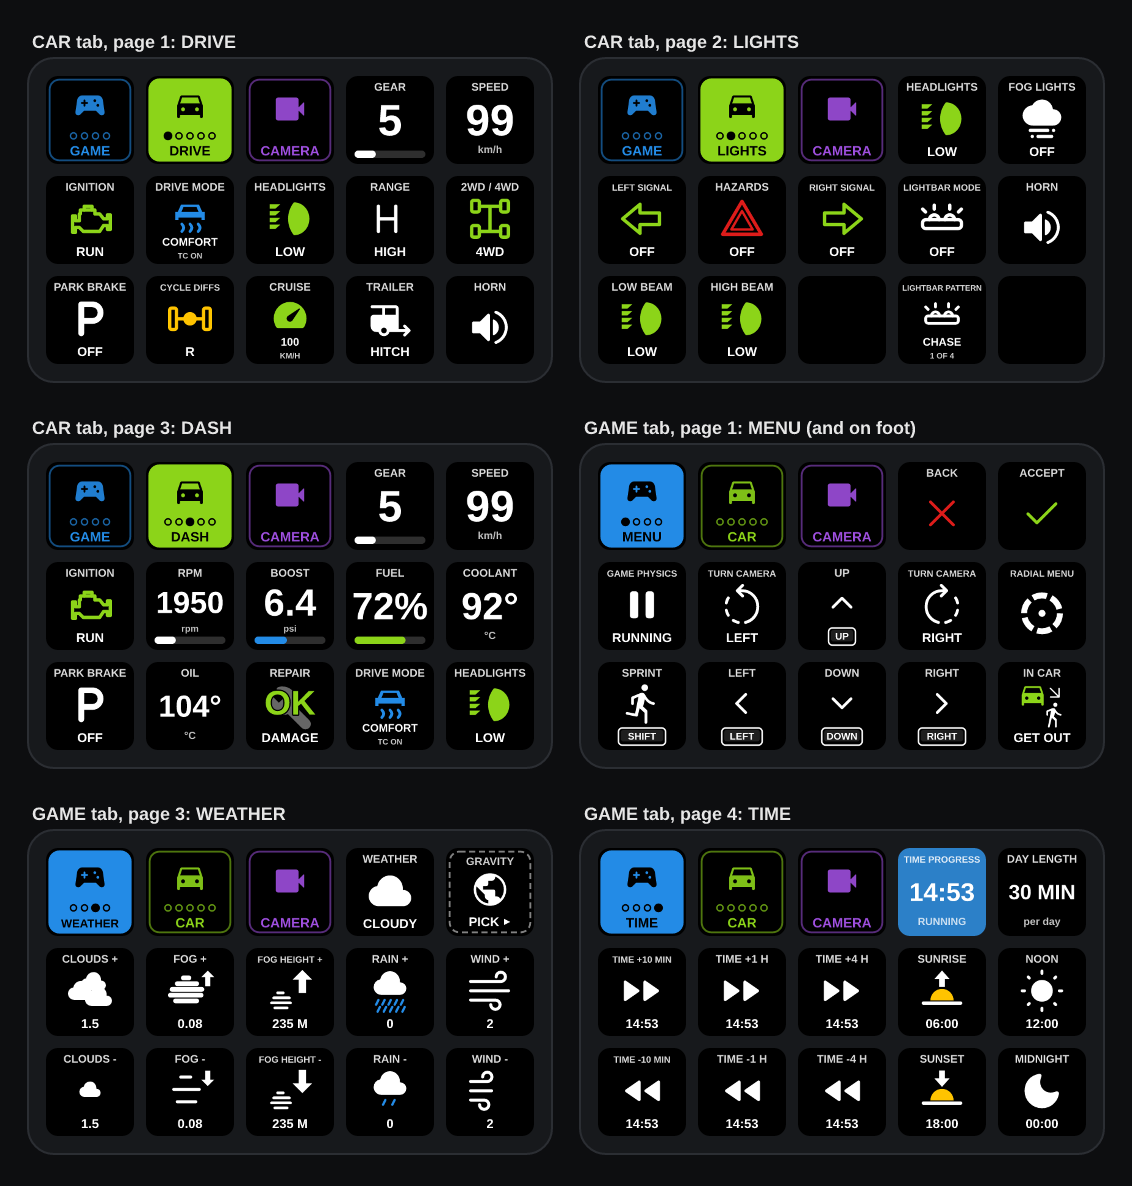
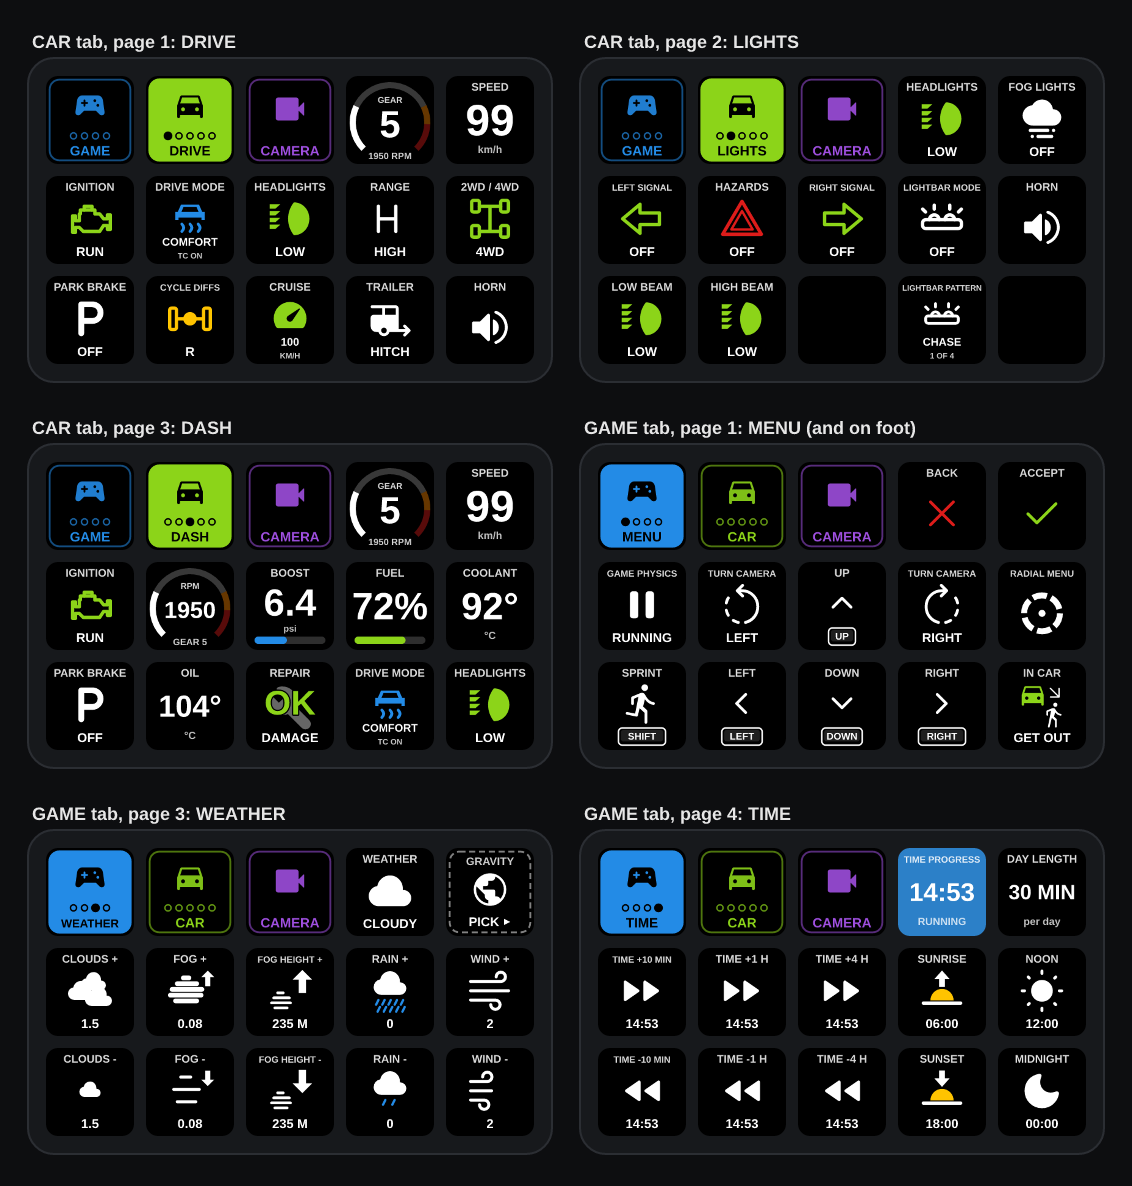
0.2.16: tacho arc on the RPM and Gear + shift light gauges
Rev arc round the key, bottom left over the top to bottom right: white, orange
from 85% of the rev limit, red from 97% and on past the limit (to 115%) so an
over-rev shows. The number follows the zone colour and flashes red at the limit.
Gear shows the RPM underneath, RPM shows the gear.

Claude-Session: https://claude.ai/code/session_01GbrUqxLtYbk74SkTvwXFfA

Changed region(s): [[0.1237, 0.468, 0.2164, 0.5616], [0.3092, 0.3744, 0.4019, 0.468], [0.3092, 0.0624, 0.4019, 0.156]]

diff --git a/src/icons.ts b/src/icons.ts
@@ -50,7 +50,7 @@ export type Face = {
 	glyph?: string[]; // game icon names (sprite symbol ids), first one available is used
 	tint?: string; // glyph colour (a P colour); flash frames use P.dimmed
 	/** Drawn gauge / readout instead of an icon: clock, speed, fuel... */
-	panel?: { big: string; top?: string; unit?: string; bg?: string; fg?: string; bar?: { value: number; color: string } };
+	panel?: { big: string; top?: string; unit?: string; bg?: string; fg?: string; bar?: { value: number; color: string }; arc?: { value?: number } };
 	label: string; // what the key is (also the in-game message); the top title unless head is set
 	value: string; // its current mode: the bottom line (left out when it only repeats the title)
 	sub?: string; // small extra line under the mode ("TC ON", "PAUSED", "OPENS MENU"...)
@@ -348,7 +348,50 @@ ${decorations({ frame: f.frame })}
 </svg>`;
 }
 
+/** Rev arc zones (share of the rev limit): white, then orange near the redline, red at it and beyond.
+ *  The arc runs past the limit (to REV_ARC) so an over-rev (a missed downshift) shows in the red. */
+export const REV_ORANGE = 0.85;
+export const REV_RED = 0.97;
+export const REV_ARC = 1.15;
+export const ORANGE = "#FF8A00";
+export const revZone = (k?: number) => (k === undefined || k < REV_ORANGE ? "#fff" : k < REV_RED ? ORANGE : P.red);
+
+/** Tacho arc round the key, from bottom left over the top to bottom right: faint zones, lit up to the revs. */
+function revArc(value: number | undefined, dim: boolean): string {
+	const cx = 72, cy = 76, r = 61, sw = 10;
+	const pt = (t: number) => {
+		const a = ((225 - 270 * t) * Math.PI) / 180;
+		return `${(cx + r * Math.cos(a)).toFixed(2)} ${(cy - r * Math.sin(a)).toFixed(2)}`;
+	};
+	const seg = (t0: number, t1: number, color: string, op: number) =>
+		t1 - t0 < 0.002 ? "" : `<path d="M ${pt(t0)} A ${r} ${r} 0 ${(t1 - t0) * 270 > 180 ? 1 : 0} 1 ${pt(t1)}" fill="none" stroke="${color}" stroke-width="${sw}" stroke-opacity="${op}"/>`;
+	const zones: [number, number, string][] = [[0, REV_ORANGE / REV_ARC, "#fff"], [REV_ORANGE / REV_ARC, REV_RED / REV_ARC, ORANGE], [REV_RED / REV_ARC, 1, P.red]];
+	// unlit: faint, the orange / red zones a little stronger so the redline always shows
+	let out = zones.map(([a, b, c]) => seg(a, b, dim ? P.off : c, dim ? 0.35 : c === "#fff" ? 0.22 : 0.4)).join("");
+	if (value !== undefined && !dim) {
+		const v = Math.max(0, Math.min(1, value / REV_ARC));
+		out += zones.map(([a, b, c]) => (v > a ? seg(a, Math.min(v, b), c, 1) : "")).join("");
+	}
+	return out;
+}
+
+/** Gauge with a rev arc: title small inside the arc, the reading big in the middle, its unit at the bottom. */
+function arcPanelSvg(f: Face, dark: boolean): string {
+	const p = { ...f.panel!, top: f.head ?? f.panel!.top ?? f.label };
+	const fg = f.dim || dark ? P.off : p.fg ?? "#fff";
+	const n = p.big.length;
+	const size = n <= 1 ? 62 : n <= 2 ? 54 : n <= 3 ? 46 : n <= 4 ? 38 : 30;
+	return `<svg xmlns="http://www.w3.org/2000/svg" width="144" height="144" viewBox="0 0 144 144">
+<rect width="144" height="144" fill="#000"/>
+${revArc(p.arc!.value, !!f.dim || dark)}
+<text x="72" y="44" ${FONT} font-size="${(p.top ?? "").length > 6 ? 12 : 14}" fill="${f.dim ? P.off : "#fff"}" fill-opacity="0.85">${esc(clip((p.top ?? "").toUpperCase(), 10))}</text>
+<text x="72" y="${78 + size * 0.36}" ${FONT} font-size="${size}" fill="${fg}">${esc(p.big)}</text>
+${p.unit ? `<text x="72" y="136" ${FONT} font-size="15" fill="${f.dim ? P.off : "#fff"}" fill-opacity="0.8">${esc(clip(p.unit.toUpperCase(), 10))}</text>` : ""}
+</svg>`;
+}
+
 function panelSvg(f: Face, dark: boolean): string {
+	if (f.panel?.arc) return arcPanelSvg(f, dark);
 	const p = { ...f.panel!, top: f.head ?? f.panel!.top ?? f.label };
 	const fg = f.dim ? P.dimmed : p.fg ?? "#fff";
 	const n = p.big.length;

diff --git a/src/gauges.ts b/src/gauges.ts
@@ -3,7 +3,7 @@ import { action } from "@elgato/streamdeck";
 
 import { Command, DeckAction, Ignition, Settings, Traction, unitOf } from "./actions";
 import { VehicleStatus } from "./game";
-import { C, Face, P } from "./icons";
+import { C, Face, P, REV_RED, revZone } from "./icons";
 
 type G = NonNullable<VehicleStatus["g"]>;
 type Panel = NonNullable<Face["panel"]>;
@@ -48,16 +48,21 @@ export const GAUGES: Record<string, { label: string; read: (g: G, st: Settings) 
 		read: (g) => {
 			const name = gearName(g);
 			if (name === undefined) return undefined;
-			const { k, c } = revs(g);
-			return { panel: { big: name, top: "Gear", bg: c === P.red ? P.red : undefined, fg: c && c !== P.red ? c : "#fff", bar: k === undefined ? undefined : { value: k, color: c && c !== P.red ? c : "#fff" } }, flash: c === P.red };
+			// tacho arc round the key (white, orange near the redline, red at it), the RPM underneath
+			const k = rev(g);
+			const red = k === undefined ? !!g.shift : k >= REV_RED || !!g.shift;
+			const rpm = g.rpm === undefined ? undefined : `${Math.round(g.rpm / 50) * 50} RPM`;
+			return { panel: { big: name, top: "Gear", unit: rpm, fg: red ? P.red : revZone(k), arc: { value: k } }, flash: red };
 		},
 	},
 	rpm: {
 		label: "RPM",
 		read: (g) => {
 			if (g.rpm === undefined) return undefined;
-			const { k, c } = revs(g);
-			return { panel: { big: String(Math.round(g.rpm / 50) * 50), unit: "rpm", fg: c ?? "#fff", bar: k === undefined ? undefined : { value: k, color: c ?? "#fff" } }, flash: c === P.red };
+			const k = rev(g);
+			const red = k === undefined ? !!g.shift : k >= REV_RED || !!g.shift;
+			const gear = gearName(g);
+			return { panel: { big: String(Math.round(g.rpm / 50) * 50), top: "RPM", unit: gear === undefined ? "RPM" : `GEAR ${gear}`, fg: red ? P.red : revZone(k), arc: { value: k } }, flash: red };
 		},
 	},
 	fuel: {

diff --git a/src/game.ts b/src/game.ts
@@ -17,7 +17,7 @@ import { Blocked, Mcp } from "./mcp";
 import { classify, RawControl, VControl } from "./vehcontrols";
 import { OutGauge } from "./outgauge";
 
-export const VERSION = "0.2.15";
+export const VERSION = "0.2.16";
 export const DECK_VERSION = "0.2.6"; // bump when the vehicle Lua changes, so vehicles reload it
 
 export type DiffState = "locked" | "open" | "partial" | "auto" | "lsd" | null | undefined;

diff --git a/RELEASE_NOTES.md b/RELEASE_NOTES.md
@@ -1,3 +1,28 @@
+# BeamDeckNG 0.2.16
+
+## What's new since 0.2.15
+
+**Tacho arc on the RPM and Gear + shift light gauges.** A rev bar now runs round the key, from bottom left over
+the top to bottom right, like a rev counter: white through the rev range, orange near the redline, and red from
+the redline on. The arc carries on past the redline, so an over-rev (a missed downshift) shows in the red. The
+orange and red zones always show faintly, so you can see where the limit is, and the number turns orange and
+then red (flashing) to match. The Gear gauge shows the RPM underneath, the RPM gauge shows the gear.
+
+## Downloads
+
+| File | What it is |
+| --- | --- |
+| `com.yahms.beamdeckng.streamDeckPlugin` | the plugin: double-click to install (Stream Deck 7.1 or later) |
+| `com.yahms.beamdeckng.streamDeckIconPack` | icon pack for the Stream Deck Icon Library: double-click to install |
+| `BeamDeckNG-icons.zip` | the same icons as plain PNGs, for Set from File |
+| `BeamDeckNGv0.2.15-15keyExample.streamDeckProfile` | example 15-key profile (arrows, Repair, Sprint and camera up / down set to the keyboard kind): double-click to import |
+| `BeamDeckNG-MP-MCP.zip` | for BeamMP server owners: the server-side add-on (goes in the server's client mods) |
+
+**Install:** double-click the plugin, then drag buttons from the **BeamDeckNG** category, or import the example
+profile. Enable MCP in BeamNG.drive; Stream Deck must be on the same computer as the game.
+
+Feedback and bug reports are welcome on the Issues page.
+
 # BeamDeckNG 0.2.15
 
 ## What's new since 0.2.14
@@ -18,21 +43,6 @@ The Damage gauge's "When pressed" also has "Repair (via MCP)" and "Repair (via k
 
 **Upgrading from 0.2.14:** the plain Up / Down / Left / Right, Repair and Damage-gauge repair are now the via MCP
 kind. Keys you'd set to "Real keyboard key" stay keyboard keys; for the rest, pick the "via keyboard" function.
-
-## Downloads
-
-| File | What it is |
-| --- | --- |
-| `com.yahms.beamdeckng.streamDeckPlugin` | the plugin: double-click to install (Stream Deck 7.1 or later) |
-| `com.yahms.beamdeckng.streamDeckIconPack` | icon pack for the Stream Deck Icon Library: double-click to install |
-| `BeamDeckNG-icons.zip` | the same icons as plain PNGs, for Set from File |
-| `BeamDeckNGv0.2.15-15keyExample.streamDeckProfile` | example 15-key profile (arrows, Repair, Sprint and camera up / down set to the keyboard kind): double-click to import |
-| `BeamDeckNG-MP-MCP.zip` | for BeamMP server owners: the server-side add-on (goes in the server's client mods) |
-
-**Install:** double-click the plugin, then drag buttons from the **BeamDeckNG** category, or import the example
-profile. Enable MCP in BeamNG.drive; Stream Deck must be on the same computer as the game.
-
-Feedback and bug reports are welcome on the Issues page.
 
 # BeamDeckNG 0.2.14
 

diff --git a/README.md b/README.md
@@ -51,7 +51,7 @@ icons where it has one.*
 | JATO | ready / firing, fuel % | hold to fire, or toggle (setting) |
 | Powertrain (game bar) | the Nth button of the game's powertrain bar, with its icon and coloured ring | whatever the game's button does |
 | World | **time of day** clock with a sky-coloured background (night blue, dawn/dusk orange, day blue); time presets (sunrise, noon, sunset, midnight), ±1 hour, day length; **weather** presets (clear, cloudy, fog, rain, storm) and separate rain / fog / wind keys; **gravity** (Earth, Moon, Mars, Zero-G, Jupiter). Preset keys are green when that preset is current | apply the preset, or cycle. The clock key runs / freezes time |
-| Gauge | speed, speed + gear, gear with shift light (green > yellow > red flash near the limiter), rpm, fuel, coolant and oil temperature, boost, damage | set per gauge (below) |
+| Gauge | speed, speed + gear, gear with shift light and rpm (both with a tacho arc round the key: white, orange near the redline, red at it and past it for over-revs, flashing), fuel, coolant and oil temperature, boost, damage | set per gauge (below) |
 | Tyre pressure | one axle or all wheels, with that group's pressure in psi (vehicles with a central tyre inflation system, e.g. the Stambecco 6x6) | hold to inflate or deflate |
 | Vehicle control (auto) | slot N of the vehicle's own controls: tray tilt, hydraulics, fifth wheel, spinner speed... (see [Vehicle controls](#vehicle-controls-auto)) | hold to move, or tap to toggle |
 | Game function | pause, repair, recover, respawn, accept, back, get in/out, map, vehicles, radial menu, slow motion (1x <-> last slow speed), slower/faster, game UI, photo mode, traffic, trailer, next vehicle (shows the car you are in, in its paint colour), menu arrows, next / previous camera (every camera the vehicle has: driver, hood, chase, orbit, external, top...), free camera on / off, fixed camera keys, look back, replay record / stop, eject replay, reload Lua | per function |
